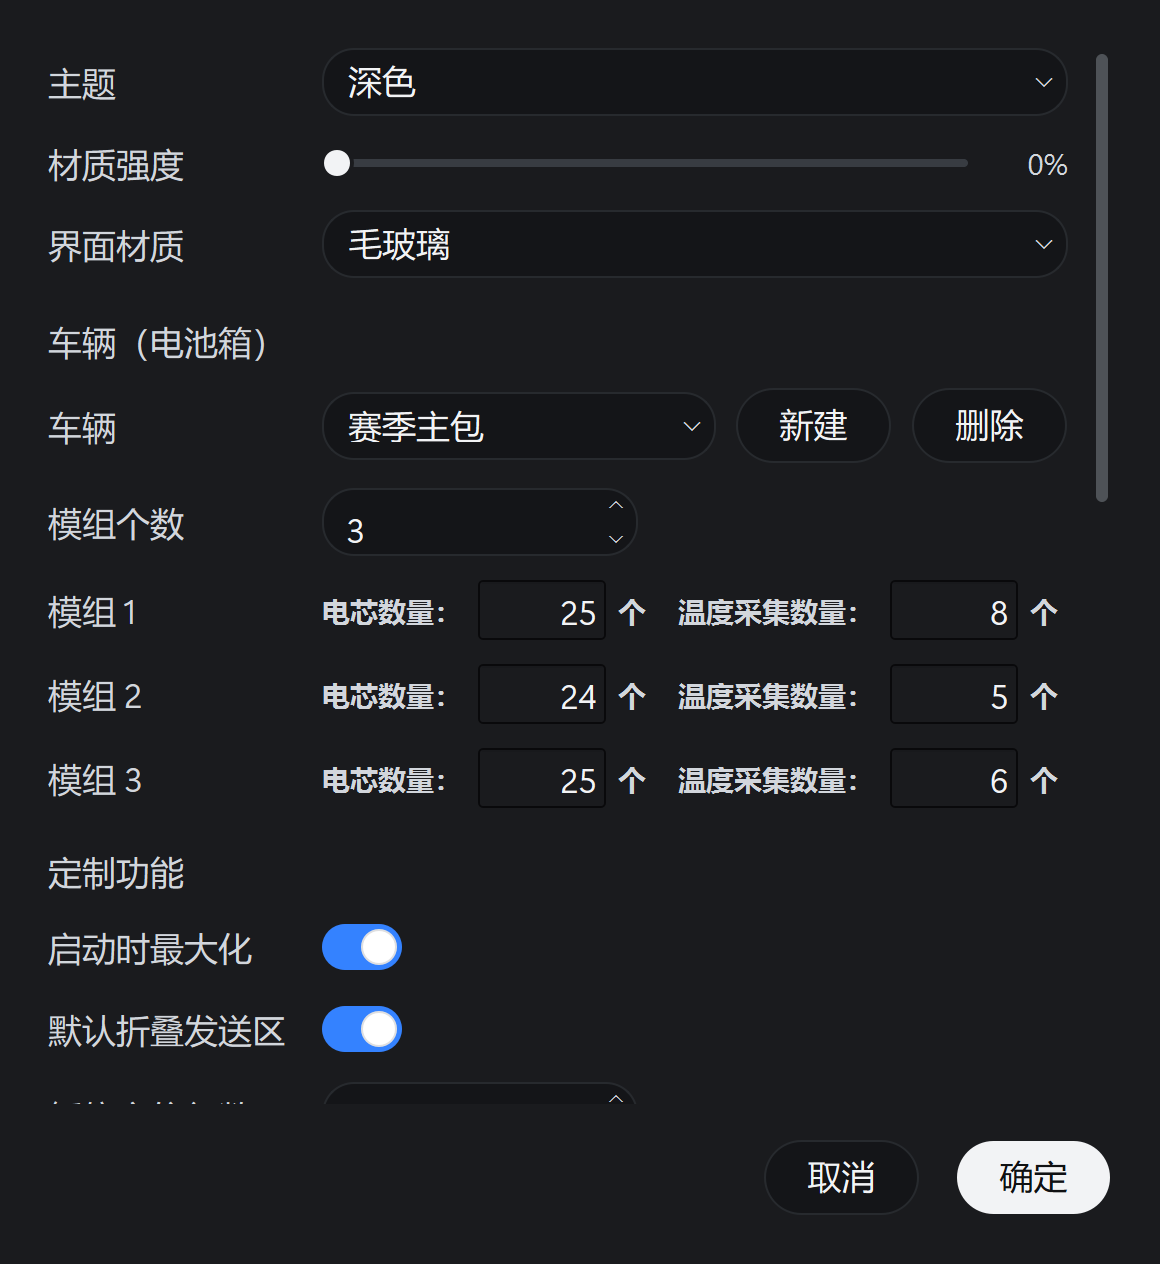
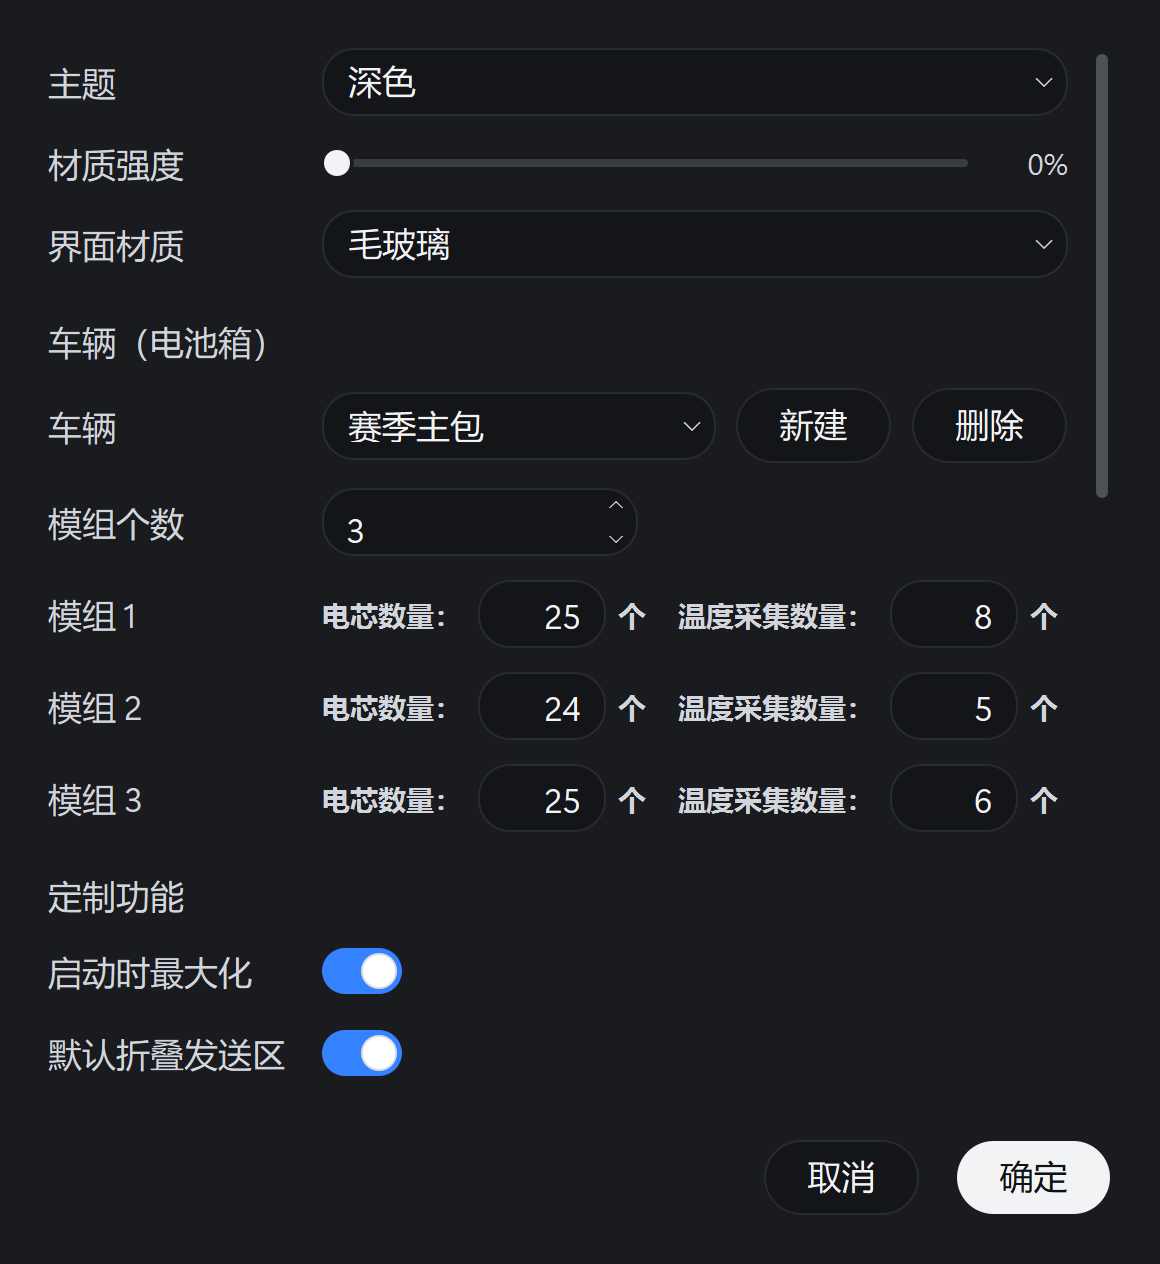
v2.2 收尾：数量输入框对齐全站圆角药丸风格

diff --git a/ui_theme.py b/ui_theme.py
@@ -599,6 +599,30 @@ QLineEdit#searchEdit:focus {
     border: 1px solid @line_strong@;
 }
 
+/* ---- 设置面板「模组 i」的数量输入框（电芯数量：〔N〕个）----
+   与 searchEdit 同一套族谱：surface_2 底 + line 描边 + CONTROL_RADIUS 圆角，
+   hover/focus 也一致。高度对齐 QComboBox（min/max 20 + 上下 padding 6 + 边框 2
+   = 34，见下面 QComboBox 那条的换算），同一行里两种控件才不会一高一矮。 */
+QLineEdit#countEdit {
+    background: @surface_2@;
+    border: 1px solid @line@;
+    border-radius: @CONTROL_RADIUS@px;
+    padding: 6px 8px;
+    min-height: 20px;
+    max-height: 20px;
+    color: @ink@;
+    selection-background-color: rgba(@sel_rgb@,0.18);
+    selection-color: @ink@;
+}
+
+QLineEdit#countEdit:hover {
+    background: @surface_hover@;
+}
+
+QLineEdit#countEdit:focus {
+    border: 1px solid @line_strong@;
+}
+
 QLabel#searchCount {
     color: @ink_2@;
 }

diff --git a/version.py b/version.py
@@ -30,9 +30,9 @@ SETUP_ASSET_SUFFIX = ".exe"
 # 空串 = 该版本发布时尚未记录（自动更新会退回大小/跳过校验）。
 # ⚠ 升版本时必须先清空成空串：留着**上一版**的哈希会让"拉到的版本文件没解析出
 #    哈希"时的兜底校验拿旧哈希去比新包，直接把更新卡死。发布完由脚本写回。
[2 lines of base64/hex data omitted]
 
 # 当前 Release 里**安装包**的 SHA256（同上，由发布脚本写回）。
 # 空串 = 尚未记录，走大小/跳过校验。
[2 lines of base64/hex data omitted]
 

diff --git a/ui_settings.py b/ui_settings.py
@@ -499,6 +499,10 @@ class SettingsDialog(QDialog):
         数字就是框里那个自定义值（不再把数量塞进短单位文字里）。
         """
         box = QLineEdit()
+        # 挂 objectName 走 ui_theme 里的 QSS（QLineEdit#countEdit）：和下拉框/
+        # 数字框同族外观（surface_2 底 + line 描边 + CONTROL_RADIUS 圆角）。
+        # ⛔ 不能用裸 QLineEdit 规则——可编辑下拉框内部也藏着 QLineEdit。
+        box.setObjectName("countEdit")
         box.setValidator(QIntValidator(0, 999, box))
         box.setText(str(int(value)))
         box.setAlignment(Qt.AlignmentFlag.AlignRight | Qt.AlignmentFlag.AlignVCenter)
